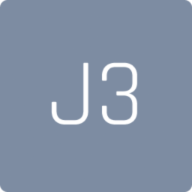
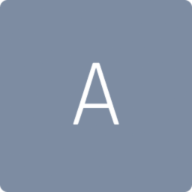
first preview

Changed region(s): [[0.25, 0.3125, 0.7188, 0.6562]]

diff --git a/src/components/Layout.tsx b/src/components/Layout.tsx
@@ -1,10 +1,10 @@
 import { useEffect, useState } from "react";
 import Image from "next/image";
-import base from "../assets/projetos/base.png";
+import alyah from "../assets/projetos/alyah.png";
 import capivara from "../assets/projetos/Capivara.png";
-import eagle from "../assets/projetos/eagle.png";
-import glc from "../assets/projetos/glc.png";
-import note from "../assets/projetos/note.svg";
+import angel from "../assets/projetos/angel.png";
+import owl from "../assets/projetos/owl.png";
+import moon from "../assets/projetos/moonriver.png";
 
 export default function Main() {
   const [text, setText] = useState("");
@@ -13,7 +13,7 @@ export default function Main() {
 
   const [textEmail, setTextEmail] = useState("");
   const [fullTextEmail, setFullTextEmail] = useState(
-    "Email: pontodigital.strans@gmail.com"
+    "Email: email.example@gmail.com"
   );
   const [indexEmail, setIndexEmail] = useState(0);
 
@@ -21,7 +21,7 @@ export default function Main() {
 
   const [textTelefone, setTextTelefone] = useState("");
   const [fullTextTelefone, setFullTextTelefone] = useState(
-    "Telefone: 86-98767-2920"
+    "Telefone: 99-99999-9999"
   );
   const [indexTelefone, setIndexTelefone] = useState(0);
 
@@ -122,12 +122,12 @@ export default function Main() {
               >
                 <div className="flex flex-col gap-10 items-center justify-center hover:bg-primary h-72 rounded-xl group">
                   <Image
-                    alt="Sistema Base"
-                    src={base}
+                    alt="Alyah"
+                    src={alyah}
                     className="block h-24 object-contain"
                   />
                   <p className="text-center text-primary group-hover:text-terciary font-semibold text-lg">
-                    Sistema Base
+                    Alyah
                   </p>
                 </div>
                 <div className="flex flex-col gap-10 items-center justify-center hover:bg-primary h-72 rounded-xl group">
@@ -142,50 +142,35 @@ export default function Main() {
                 </div>
                 <div className="flex flex-col gap-10 items-center justify-center hover:bg-primary h-72 rounded-xl group">
                   <Image
-                    alt="Sistema Base"
-                    src={eagle}
+                    alt="App Angel"
+                    src={angel}
                     className="block h-24 object-contain"
                   />
                   <p className="text-center text-primary group-hover:text-terciary font-semibold text-lg">
-                    Sistema Vigia
+                    App Angel
                   </p>
                 </div>
                 <div className="flex flex-col gap-10 items-center justify-center hover:bg-primary h-72 rounded-xl group">
                   <Image
-                    alt="Sistema Base"
-                    src={glc}
+                    alt="Sistema Coruja"
+                    src={owl}
                     className="block h-24 object-contain"
                   />
                   <p className="text-center text-primary group-hover:text-terciary font-semibold text-lg">
-                    Sistema Glc
+                    Sistema Coruja
                   </p>
                 </div>
                 <div className="flex flex-col gap-10 items-center justify-center hover:bg-primary h-72 rounded-xl group">
                   <Image
-                    alt="Sistema Base"
-                    src={note}
+                    alt="Sistema Moon River"
+                    src={moon}
                     className="block h-24 object-contain"
                   />
                   <p className="text-center text-primary group-hover:text-terciary font-semibold text-lg">
-                    Sistema Notificação
+                    Sistema Moon River
                   </p>
                 </div>
               </div>
-              {/* <div className="my-12 flex w-full flex-col pl-8 text-center">
-                <a
-                  href="/"
-                  className="
-                  underline-blue
-                  mb-8
-                  mt-6
-                  text-xl
-                  font-bold
-                  text-black
-                "
-                >
-                  Ut eleifend.
-                </a>
-              </div> */}
             </div>
           </div>
           <div className="text-primary">
@@ -212,187 +197,15 @@ export default function Main() {
                     className="underline-blue font-semibold"
                   >
                     {" "}
-                    pontodigital.strans@gmail.com{" "}
+                    email.example@gmail.com{" "}
                   </a>
                   ou para o Whattsapp
-                  <p className="underline-blue font-semibold">86-98767-2920</p>
+                  <p className="underline-blue font-semibold">99-99999-9999</p>
                 </div>
               </div>
-              {/* <img
-                className="
-                lg:w-5/7
-                mb-40
-                hidden
-                w-5/6
-                rounded object-cover
-                object-center
-                lg:inline-block 
-                lg:w-4/6
-              "
-                src="/images/placeholder.png"
-                alt="img"
-              />
-
-              <img
-                className="
-              mb-24
-              inline-block
-              w-5/6
-              rounded
-              object-cover object-center
-              lg:hidden
-              lg:w-4/6 
-            "
-                src="/images/placeholder.png"
-                alt="img"
-              /> */}
             </div>
           </div>
         </div>
-        {/* 
-        <div className="mx-auto px-5 pt-32 pb-24 lg:px-24">
-          <div className="my-3 flex w-full flex-col text-left lg:text-center">
-            <h2 className="bold mb-8 text-4xl font-bold leading-tight text-black lg:text-6xl">
-              Lorem ipsum elit sit unar,{" "}
-              <br className="hidden lg:inline-block" />
-              consectetur adipiscing elit.
-            </h2>
-          </div>
-          <div className="flex w-full flex-col text-left lg:text-center">
-            <h3 className="text-2xl text-black">
-              Lorem ipsum arcu, consectetur adipiscing elit. Viverra elementum
-              pellentesque <br className="hidden lg:inline-block" />
-              tortor, luctus blandit sed dolor et, semper. Posuere vitae vitae,
-              ac mus. Arcu quis feugiat.
-            </h3>
-          </div>
-          <div className="flex w-full flex-row justify-center pt-24 text-center">
-            <a
-              href="/"
-              className="underline-blue px-8 text-xl font-semibold text-black"
-            >
-              Ut eleifend.
-            </a>
-            <a
-              href="/"
-              className="underline-gray px-6 text-xl font-semibold text-gray-700"
-            >
-              Tempus in.
-            </a>
-          </div>
-        </div>
-        <div className="invisible mx-auto flex max-w-6xl p-3 pb-32 lg:visible lg:px-2">
-          <img src="/images/placeholder.png" alt="img" />
-        </div>
-        <div className="bg-white text-black">
-          <div className="mx-auto flex flex-col items-center px-5 pt-56 lg:flex-row">
-            <div className="mb-16 flex flex-col text-left lg:mb-0 lg:w-1/2 lg:flex-grow lg:items-start lg:pr-16 lg:pr-6">
-              <h2 className="mb-4 text-4xl font-bold leading-none sm:text-5xl">
-                Bibendum tortor et sit convallis nec morbi.
-              </h2>
-              <p className="font-3xl mb-8 font-semibold leading-relaxed">
-                Lorem ipsum auctor sit amet, consectetur adipiscing elit. Sit a
-                egestas tortor viverra nisl, in non. Neque viverra sollicitudin
-                amet volutpat auctor amet. Aliquam pellentesque condimentum
-                mauris sit tincidunt egestas ullamcorper sit.{" "}
-              </p>
-            </div>
-            <div className="lg:w-full lg:max-w-2xl">
-              <img src="/images/placeholder.png" alt="img" />
-            </div>
-          </div>
-          <div className="mt-32">
-            <div className="mx-auto flex flex-col px-5 py-24 text-left lg:flex-row">
-              <div className="hidden lg:inline-block lg:w-full lg:max-w-xl">
-                <img src="/images/placeholder.png" alt="img" />
-              </div>
-              <div className="flex flex-col pt-0 text-left lg:w-1/2 lg:flex-grow lg:items-start lg:pl-16 lg:pl-24 lg:pt-24">
-                <h2 className="mb-4 text-4xl font-bold leading-none sm:text-5xl">
-                  Eu diam in magna blandit sit magna dolor proin velit.
-                </h2>
-                <p className="mb-8 font-semibold leading-relaxed text-black">
-                  Lorem ipsum ac neque, consectetur adipiscing elit. Nibh neque,
-                  ut purus donec sed donec semper ac vestibulum. Mi urna,
-                  facilisis arcu, auctor elit. Ut nunc non aenean netus ut.
-                </p>
-              </div>
-              <div className="inline-block lg:hidden lg:w-full lg:max-w-xl">
-                <img src="/images/placeholder.png" alt="img" />
-              </div>
-            </div>
-          </div>
-          <div className="my-24 p-4 text-black">
-            <div className="max-w-9xl mx-auto flex flex-col items-center bg-gradient-to-r from-blue-200 to-blue-100 px-5 py-24 lg:flex-row">
-              <div className="flex flex-col items-center pb-16 pl-0 text-center lg:mb-0 lg:w-1/2 lg:flex-grow lg:items-start lg:pl-12 lg:pr-24 lg:text-left">
-                <h2 className="pb-4 text-2xl font-bold leading-tight lg:text-4xl">
-                  Lorem ipsum mi at amet, consecteturadipiscing elit. Mattis.
-                </h2>
-                <p className="text-md mb-8 lg:text-xl">
-                  Lorem ipsum praesent amet, consectetur adipiscing elit. Cursus
-                  ullamcorper id tristique tincidunt. Tincidunt feugiat at mi
-                  feugiat hendrerit. Ac faucibus accumsan, quis lacus, lectus
-                  eget bibendum. At praesent quisque sollicitudin fusce.
-                </p>
-              </div>
-              <div className="w-4/7 pr-12 lg:w-2/5">
-                <img
-                  src="/images/placeholder.png"
-                  className="hidden object-cover object-center lg:inline-block"
-                  alt="image"
-                />
-                <img
-                  src="/images/placeholder.png"
-                  className="inline-block object-cover object-center lg:hidden"
-                  alt="image"
-                />
-              </div>
-            </div>
-          </div>
-          <div className="mx-auto">
-            <div className="max-w-8xl mx-auto px-5 py-24 lg:px-24">
-              <div className="my-6 flex w-full flex-col text-left lg:text-center">
-                <h3 className="mb-8 text-5xl font-bold text-black">
-                  Dui tellus quis magna id ultricies eu sed.
-                </h3>
-                <h3 className="mb-12 px-0 text-lg font-semibold text-gray-900 lg:px-52">
-                  Lorem ipsum accumsan arcu, consectetur adipiscing elit.
-                  Aliquet vestibulum molestie amet, maecenas id amet. Ipsum
-                  accumsan arcu, aenean viverra penatibus quis. Laoreet.
-                </h3>
-              </div>
-              <img src="/images/placeholder.png" alt="img" />
-            </div>
-          </div>
-          <div className="text-black">
-            <div className="max-w-8xl mx-auto flex flex-col px-5 py-48 text-black lg:flex-row">
-              <div className="lg:mb-0 lg:w-full lg:max-w-xl">
-                <img
-                  className="rounded object-cover object-center"
-                  alt="image"
-                  src="/images/placeholder1.png"
-                />
-              </div>
-              <div className="items-left flex flex-col pt-16 text-left lg:w-1/2 lg:flex-grow lg:items-start lg:pl-32 lg:pl-48 lg:text-left">
-                <h2 className="mb-2 text-lg leading-tight text-gray-700 sm:text-lg">
-                  Viverra enim diam gravida risus nisl.
-                </h2>
-                <h2 className="mb-6 text-lg font-bold sm:text-lg">
-                  Lectus eu.
-                </h2>
-                <h2 className="mb-4 text-3xl font-bold sm:text-3xl">
-                  Lorem ipsum accumsan arcu, consectetur adipiscing elit. Sed
-                  eget enim vel.
-                </h2>
-                <a
-                  href="/"
-                  className="underline-blue mt-12 text-lg font-bold leading-relaxed"
-                >
-                  Ut convallis massa.
-                </a>
-              </div>
-            </div>
-          </div>
-        </div> */}
       </section>
     </div>
   );

diff --git a/src/pages/index.tsx b/src/pages/index.tsx
@@ -2,13 +2,13 @@ import Head from "next/head";
 import Header from "../components/Header";
 import Layout from "../components/Layout";
 import Footer from "../components/Footer";
-import favicon from "../assets/favinco.ico";
+
 
 export default function Home() {
   return (
     <>
       <Head>
-        <title>J3 Tech</title>
+        <title>A Tech</title>
         <meta name="description" content="Generated by create next app" />
         <link
           rel="apple-touch-icon"

diff --git a/src/components/Footer.tsx b/src/components/Footer.tsx
@@ -82,7 +82,7 @@ export default function Footer() {
           <span className="text-sm text-primary sm:text-center">
             © 2023{" "}
             <a href="/" className="hover:underline">
-              J3 Tech™
+              A Tech™
             </a>
           </span>
           <div className="flex mt-4 space-x-6 sm:justify-center sm:mt-0">
